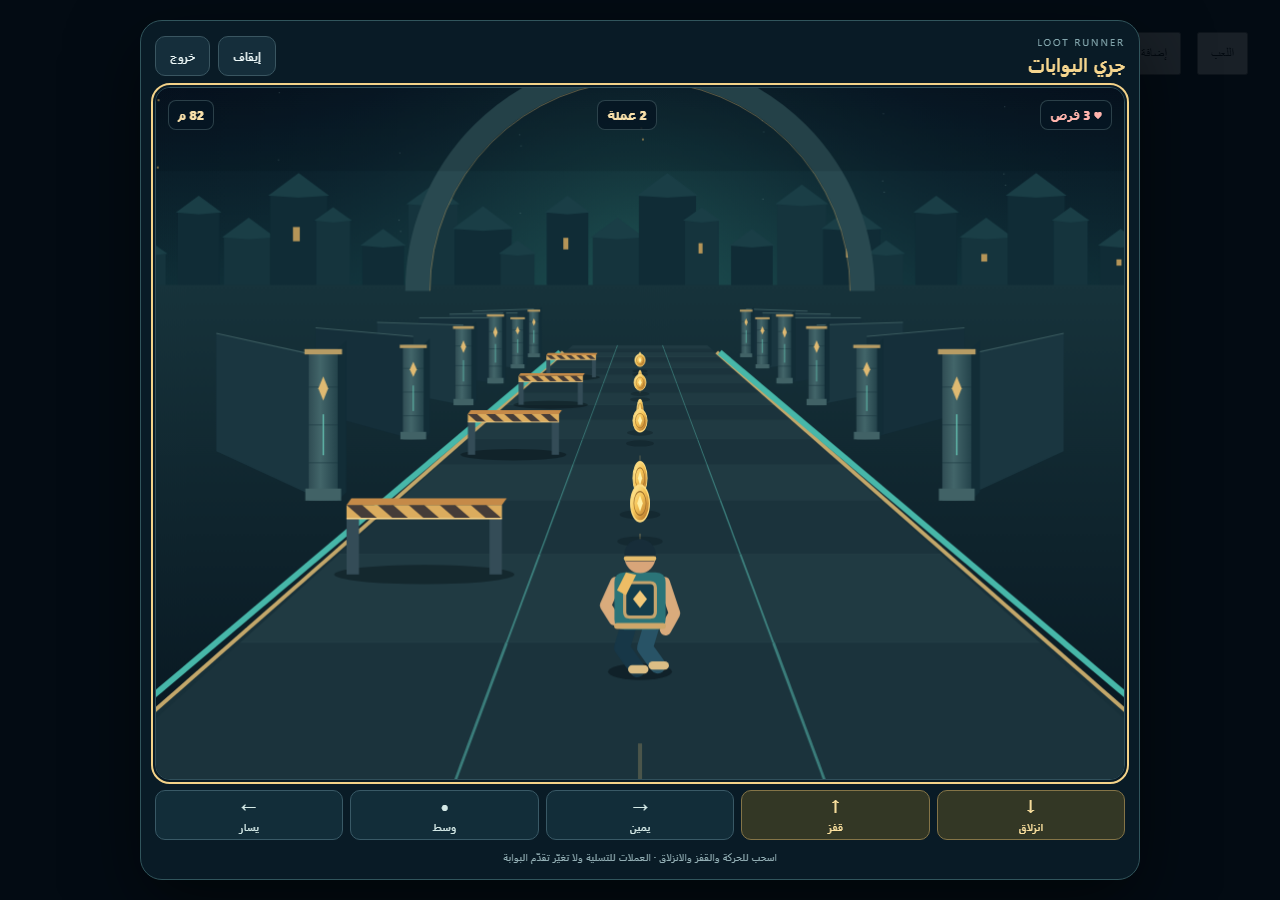
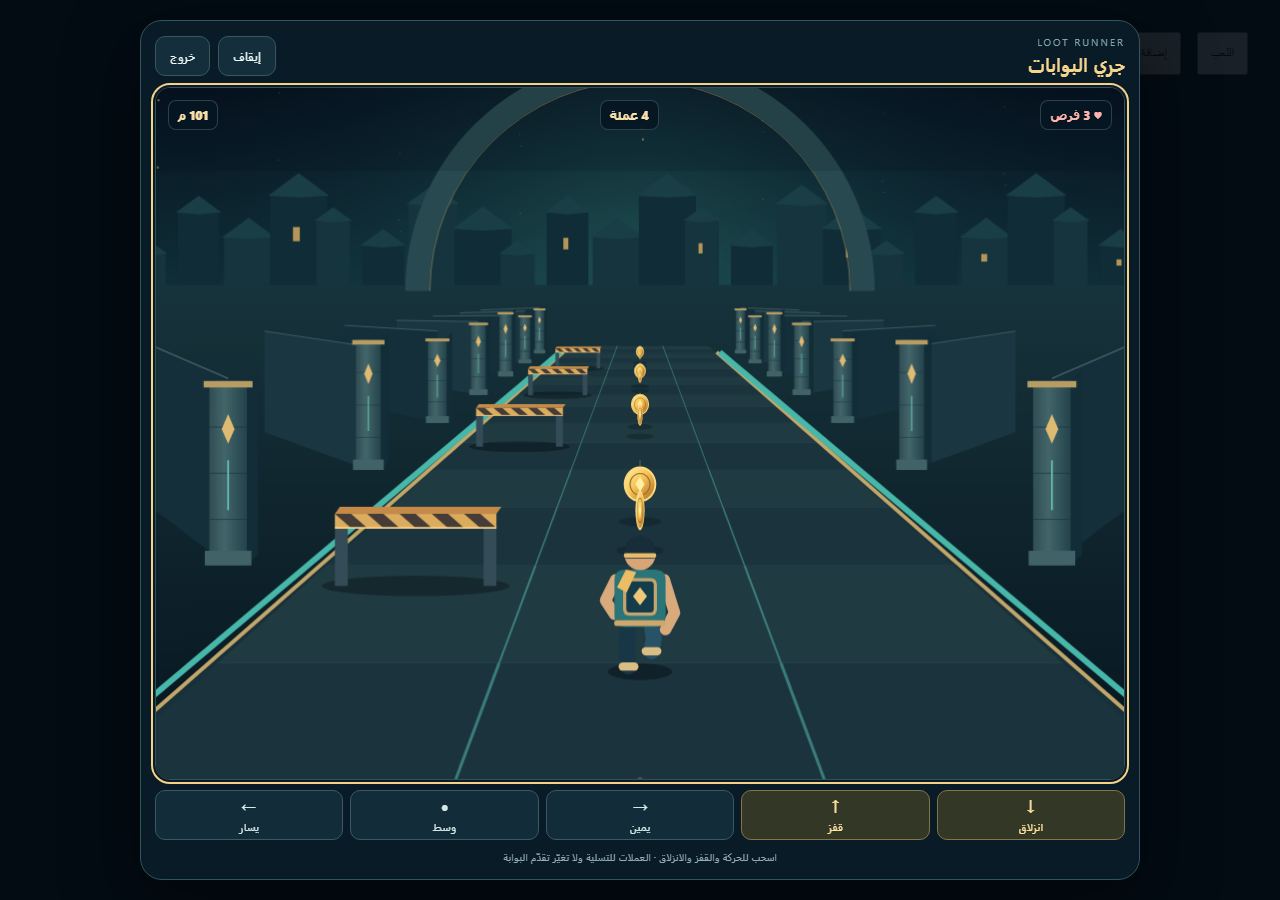
Refine runner jump physics, pacing, gate visibility and rooftop routes

diff --git a/js/runner-renderer.js b/js/runner-renderer.js
@@ -142,13 +142,22 @@
           column(lane, z, index);
         }
       }
+      // A moving tunnel section adds scenery with a handful of canvas paths.
+      const tunnel = Math.floor(distance / 240) % 2 === 1;
+      if (tunnel) for (const z of [12, 30, 48, 66]) {
+        const a = project(-.68, z), b = project(2.68, z), h = actorHeight * 2.6 * a.scale;
+        context.strokeStyle = '#36515a'; context.lineWidth = Math.max(3, laneWidth * .09 * a.scale);
+        context.beginPath(); context.moveTo(a.x, a.y); context.lineTo(a.x, a.y - h * .7);
+        context.quadraticCurveTo(width / 2, a.y - h * 1.25, b.x, b.y - h * .7); context.lineTo(b.x, b.y); context.stroke();
+        line(context, a.x, a.y - h * .68, b.x, b.y - h * .68, '#b99b60', Math.max(1, a.scale * 2));
+      }
     }
     function shadow(x, y, w, h, alpha = .3) {
       context.fillStyle = `rgba(0,7,12,${alpha})`; context.beginPath(); context.ellipse(x, y, w, h, 0, 0, Math.PI * 2); context.fill();
     }
     function coin(entity, p, time) {
       const phase = time * .005 + (Number(entity.id) || 0), radius = laneWidth * .095 * p.scale;
-      const x = p.x, y = p.y - actorHeight * .44 * p.scale + Math.sin(phase * 1.7) * radius * .12;
+      const x = p.x, y = p.y - actorHeight * (entity.height ?? .44) * p.scale + Math.sin(phase * 1.7) * radius * .12;
       shadow(x, p.y + 1, radius * 1.25, radius * .28, .23);
       context.save(); context.translate(x, y); context.scale(Math.max(.23, Math.abs(Math.cos(phase))), 1);
       const metal = context.createLinearGradient(-radius, -radius, radius, radius);
@@ -163,6 +172,25 @@
       const type = entity.obstacleType || entity.type;
       const w = laneWidth * .72 * p.scale, h = actorHeight * p.scale;
       shadow(p.x, p.y, w * .58, h * .1, .36);
+      if (type === 'train') {
+        const ramp = project(entity.lane, entity.z + 6), end = project(entity.lane, entity.z + entity.length);
+        const rw = laneWidth * .76 * ramp.scale, ew = laneWidth * .76 * end.scale;
+        const ry = ramp.y - actorHeight * 1.05 * ramp.scale, ey = end.y - actorHeight * 1.05 * end.scale;
+        quad(context, ramp.x - rw / 2, ry, end.x - ew / 2, ey, end.x + ew / 2, ey, ramp.x + rw / 2, ry, '#497780');
+        quad(context, ramp.x + rw / 2, ry, end.x + ew / 2, ey, end.x + ew / 2, end.y, ramp.x + rw / 2, ramp.y, '#163a49');
+        quad(context, p.x - w / 2, p.y, p.x + w / 2, p.y, ramp.x + rw / 2, ry, ramp.x - rw / 2, ry, '#bc9b61');
+        for (let i = 1; i < 6; i++) {
+          const t = i / 6;
+          line(context, p.x - w / 2 + (ramp.x - rw / 2 - p.x + w / 2) * t, p.y + (ry - p.y) * t,
+            p.x + w / 2 + (ramp.x + rw / 2 - p.x - w / 2) * t, p.y + (ry - p.y) * t, '#4b5a55', Math.max(1, p.scale * 2));
+        }
+        for (let i = 8; i < entity.length; i += 4) {
+          const q = project(entity.lane, entity.z + i), qw = laneWidth * .76 * q.scale;
+          context.fillStyle = '#b7d6cf'; context.fillRect(q.x + qw * .51, q.y - actorHeight * .78 * q.scale, Math.max(2, qw * .08), actorHeight * .32 * q.scale);
+        }
+        line(context, ramp.x - rw * .43, ry, end.x - ew * .43, ey, '#e7c77c', Math.max(1, ramp.scale * 2));
+        return;
+      }
       if (type === 'overhead') {
         const left = p.x - w / 2, right = p.x + w / 2, beamY = p.y - h * .72, thickness = h * .14;
         context.fillStyle = '#344c57'; context.fillRect(left, beamY, w * .08, h * .72); context.fillRect(right - w * .08, beamY, w * .08, h * .72);
@@ -173,7 +201,7 @@
         return;
       }
       const low = type === 'low' || type === 'lowbar';
-      const blockHeight = h * (low ? .37 : .95), x = p.x - w / 2, y = p.y - blockHeight, depth = h * .12;
+      const blockHeight = h * (low ? .37 : 1.4), x = p.x - w / 2, y = p.y - blockHeight, depth = h * .12;
       quad(context, x, y, x + depth, y - depth, x + w + depth, y - depth, x + w, y, low ? '#e0b86d' : '#94724b');
       quad(context, x + w, y, x + w + depth, y - depth, x + w + depth, p.y - depth, x + w, p.y, low ? '#7c663b' : '#5b4a37');
       context.fillStyle = low ? '#b88d48' : '#6e593e'; context.fillRect(x, y, w, blockHeight);
@@ -186,11 +214,17 @@
       }
     }
     function gate(entity, state) {
+      if (!entity.resolved) {
+        const a = project(-.56, entity.z), b = project(2.56, entity.z);
+        const farLeft = project(-.56, FAR), farRight = project(2.56, FAR);
+        // Opaque veil hides the continuing road until the physical crossing.
+        quad(context, a.x, a.y, b.x, b.y, farRight.x, farRight.y, farLeft.x, farLeft.y, '#040c18');
+      }
       for (let lane = 0; lane < 3; lane++) {
         const p = project(lane, entity.z), w = laneWidth * .9 * p.scale, h = actorHeight * 1.48 * p.scale;
         const x = p.x - w / 2, y = p.y - h, rim = Math.max(2, w * .085), color = laneColors[lane];
         shadow(p.x, p.y, w * .58, h * .04, .2);
-        context.fillStyle = 'rgba(49,130,129,.07)'; rounded(context, x + rim, y + rim, w - rim * 2, h - rim, w * .44); context.fill();
+        context.fillStyle = entity.resolved ? (state.feedback?.correct ? '#135846' : '#642a39') : '#040c18'; rounded(context, x + rim, y + rim, w - rim * 2, h - rim, w * .44); context.fill();
         context.strokeStyle = '#172d38'; context.lineWidth = rim * 2.8; context.lineCap = 'butt';
         context.beginPath(); context.moveTo(x + rim, p.y); context.lineTo(x + rim, y + w * .48);
         context.quadraticCurveTo(x + rim, y + rim, p.x, y + rim); context.quadraticCurveTo(x + w - rim, y + rim, x + w - rim, y + w * .48); context.lineTo(x + w - rim, p.y); context.stroke();
@@ -209,12 +243,12 @@
     }
     function actor(state, delta) {
       visualLane += (clamp(Number(state.lane) || 0, 0, 2) - visualLane) * (1 - Math.exp(-delta / 72));
-      const p = project(visualLane, 0), h = actorHeight, phase = activeTime * .014;
-      const fraction = clamp((Number(state.elapsed) - Number(state.actionStartedAt)) / Math.max(1, Number(state.actionUntil) - Number(state.actionStartedAt)), 0, 1);
-      const jumping = state.action === 'jump', sliding = state.action === 'slide';
-      const elevation = jumping ? Math.sin(fraction * Math.PI) * h * .88 : 0;
-      const sway = jumping || sliding ? 0 : Math.sin(phase) * h * .018;
-      shadow(p.x, p.y + h * .025, h * (sliding ? .34 : .25) * (1 - elevation / h * .18), h * .065, .4 - elevation / h * .18);
+      const p = project(visualLane, 0), h = actorHeight, phase = (Number(state.distance) || 0) * 1.55;
+      const pose = root.LootLinguaRunnerEngine.getPose(state);
+      const jumping = pose.action === 'jump', sliding = pose.action === 'slide';
+      const elevation = pose.feet * h;
+      const sway = jumping || sliding ? 0 : -Math.abs(Math.sin(phase)) * h * .025;
+      shadow(p.x, p.y - pose.floor * h + h * .025, h * (sliding ? .34 : .25) * (1 - pose.lift * .18), h * .065, .4 - pose.lift * .18);
       context.save(); context.translate(p.x, p.y - elevation + sway);
       if (Number(state.invulnerableUntil) > Number(state.elapsed) && Math.floor(activeTime / 80) % 2) context.globalAlpha = .58;
       if (sliding) {
@@ -227,10 +261,14 @@
         line(context, -h * .08, -h * .35, h * .02, -h * .35, '#f4ca7a', h * .05);
       } else {
         const stride = jumping ? .38 : Math.sin(phase);
-        limb(-h * .09, -h * .34, -h * (.09 + stride * .13), -h * .17, -h * (.08 - stride * .15), jumping ? -h * .15 : 0, '#173747', h * .125);
-        limb(h * .09, -h * .34, h * (.09 - stride * .13), -h * .17, h * (.08 + stride * .15), jumping ? -h * .08 : -h * .03, '#285366', h * .125);
-        line(context, -h * (.08 - stride * .15) - h * .04, jumping ? -h * .15 : 0, -h * (.08 - stride * .15) + h * .055, jumping ? -h * .15 : 0, '#dbbe85', h * .065);
-        line(context, h * (.08 + stride * .15) - h * .04, jumping ? -h * .08 : -h * .03, h * (.08 + stride * .15) + h * .055, jumping ? -h * .08 : -h * .03, '#dbbe85', h * .065);
+        // Viewed from behind: feet cycle in depth/height, never sweep sideways.
+        for (const side of [-1, 1]) {
+          const swing = stride * side, x = side * h * .09;
+          const kneeY = -h * (.17 + Math.max(0, swing) * .08);
+          const footY = jumping ? -h * (.12 + side * .035) : -h * Math.max(0, swing) * .2;
+          limb(x, -h * .34, x + side * h * .018, kneeY, x, footY, side < 0 ? '#173747' : '#285366', h * .125);
+          line(context, x - h * .045, footY, x + h * .045, footY, '#dbbe85', h * .065);
+        }
         limb(-h * .19, -h * .68, -h * .27, -h * (.47 + stride * .08), -h * .2, -h * (.35 + stride * .1), '#d9ab7c', h * .09);
         limb(h * .19, -h * .68, h * .27, -h * (.47 - stride * .08), h * .2, -h * (.35 - stride * .1), '#d9ab7c', h * .09);
         // Teal explorer jacket, brass belt and a small geometric loot backpack.
@@ -260,12 +298,18 @@
       road(distance); environment(distance);
       ordered.length = 0; metrics.drawn = 0; metrics.culled = 0;
       for (const entity of state.entities || []) {
-        if (!entity || entity.active === false || entity.z < -6 || entity.z > FAR || entity.collected || entity.hit) { metrics.culled++; continue; }
+        if (!entity || entity.active === false || entity.z + (entity.length || 0) < -6 || entity.z > FAR || entity.collected || entity.hit) { metrics.culled++; continue; }
         ordered.push(entity);
       }
       ordered.sort(byDepth);
+      const readingGate = ordered.find(item => item.kind === 'gate' && !item.resolved);
+      // Roofs are support surfaces. Paint them before their elevated coins
+      // and the runner, regardless of where the carriage's front is located.
+      for (const train of ordered) if (train.obstacleType === 'train' && (!readingGate || train.z < readingGate.z)) { obstacle(train, project(train.lane, train.z)); metrics.drawn++; }
       let actorDrawn = false;
       for (const entity of ordered) {
+        if (readingGate && entity !== readingGate && entity.z > readingGate.z) { metrics.culled++; continue; }
+        if (entity.obstacleType === 'train') continue;
         if (!actorDrawn && entity.z < 0) { actor(state, delta); actorDrawn = true; }
         const p = project(entity.lane ?? 1, entity.z);
         if (entity.kind === 'gate' || entity.type === 'gate') gate(entity, state);

diff --git a/js/runner-engine.js b/js/runner-engine.js
@@ -1,8 +1,8 @@
 (function(root) {
   'use strict';
   const LANES = 3, MAX_HEARTS = 3, MAX_ENTITIES = 48, MAX_EVENTS = 16;
-  const FAR = 80, SPAWN_Z = 64, BASE_SPEED = 12, MAX_SPEED = 23;
-  const JUMP_MS = 850, SLIDE_MS = 800, INVULNERABLE_MS = 1100;
+  const FAR = 80, SPAWN_Z = 64, BASE_SPEED = 14, MAX_SPEED = 32;
+  const JUMP_MS = 1100, SLIDE_MS = 900, INVULNERABLE_MS = 1100;
   const clamp = (value, low, high) => Math.max(low, Math.min(high, value));
   const clean = value => String(value ?? '').trim().replace(/\s+/g, ' ');
 
@@ -24,14 +24,15 @@
   }
   function createState(words, options = {}) {
     const normalized = normalizeWords(words);
+    const rng = typeof options.random === 'function' ? options.random : Math.random;
     return {
       words: normalized, lane: 1, hearts: MAX_HEARTS, coins: 0,
       distance: 0, speed: BASE_SPEED, elapsed: 0, running: true, paused: false, over: false,
       action: 'run', actionStartedAt: 0, actionUntil: 0, invulnerableUntil: 0,
       entities: [], gate: null, feedback: null, events: [],
-      _random: typeof options.random === 'function' ? options.random : Math.random,
+      _random: rng,
       _pool: Array.from({ length: MAX_ENTITIES }, () => ({})), _nextId: 1,
-      _nextRowAt: 700, _nextGateAt: 12000, _row: 0, _escapeLane: 1, _safeUntil: 0,
+      _nextRowAt: 400, _nextGateAt: 30000 + Math.floor(clamp(Number(rng()) || 0, 0, 1) * 12000), _row: 0, _escapeLane: 1, _safeUntil: 0,
       _canGate: new Set(normalized.map(item => item.meaning)).size >= LANES,
     };
   }
@@ -53,6 +54,19 @@
   }
   function jump(state) { return startAction(state, 'jump', JUMP_MS); }
   function slide(state) { return startAction(state, 'slide', SLIDE_MS); }
+  // Shared by collision and drawing: heights are measured in standing bodies.
+  function getPose(state, at = state.elapsed) {
+    const action = getAction(state, at);
+    const fraction = clamp((at - state.actionStartedAt) / Math.max(1, state.actionUntil - state.actionStartedAt), 0, 1);
+    let floor = 0;
+    for (const entity of state.entities) {
+      if (entity.obstacleType !== 'train' || entity.lane !== state.lane) continue;
+      const z = entity.z + state.speed * (state.elapsed - at) / 1000;
+      if (z <= 0 && z >= -entity.length) floor = Math.max(floor, Math.min(1, -z / 6, (entity.length + z) / 3) * 1.05);
+    }
+    const lift = action === 'jump' ? Math.sin(fraction * Math.PI) * 1.12 : 0;
+    return { action, feet: floor + lift, top: floor + lift + (action === 'slide' ? .43 : 1), floor, lift };
+  }
   function allocate(state, data) {
     const entity = state._pool.pop();
     if (!entity) return null;
@@ -94,28 +108,33 @@
       if (entity.kind === 'obstacle' && entity.z > 0) retire(state, index);
     }
     state.gate = gate;
-    state._nextGateAt = state.elapsed + 16000 + random(state) * 4000;
+    state._nextGateAt = state.elapsed + 30000 + random(state) * 18000;
     emit(state, { type: 'gate-approach', id: gate.id, word: gate.word });
   }
   function spawnRow(state) {
-    if (state.elapsed < state._nextRowAt || state.elapsed < state._safeUntil || (state.gate && !state.gate.resolved)) return;
-    const clearance = SPAWN_Z / BASE_SPEED * 1000 + 500;
-    if (hasGateWords(state) && state._nextGateAt - state.elapsed < clearance) return;
+    if (state.elapsed < state._nextRowAt || state.elapsed < state._safeUntil) return;
+    const reading = state.gate && !state.gate.resolved;
+    const clearance = (SPAWN_Z + 24) / BASE_SPEED * 1000 + 250;
+    const draining = !reading && hasGateWords(state) && state._nextGateAt - state.elapsed < clearance;
+    const spawnZ = reading ? Math.max(SPAWN_Z, state.gate.z + 24) : SPAWN_Z;
     const escapeOptions = [0, 1, 2].filter(lane => Math.abs(lane - state._escapeLane) <= 1);
     const escape = choose(state, escapeOptions);
     const blocked = [0, 1, 2].filter(lane => lane !== escape);
     if (random(state) > .5) blocked.reverse();
-    const obstacleCount = state.speed > 16 && random(state) > .45 ? 2 : 1;
-    if (state._pool.length < obstacleCount + 2) return;
+    const obstacleCount = state.distance > 120 && random(state) > .25 ? 2 : 1;
+    if (state._pool.length < obstacleCount + 4) return;
     const row = ++state._row;
-    for (let index = 0; index < obstacleCount; index++) {
-      allocate(state, { kind: 'obstacle', obstacleType: choose(state, ['low', 'overhead', 'wall']),
-        lane: blocked[index], z: SPAWN_Z, row });
+    for (let index = 0; index < (draining ? 0 : obstacleCount); index++) {
+      const lane = blocked[index];
+      if (state.entities.some(item => item.obstacleType === 'train' && item.lane === lane && item.z > -item.length)) continue;
+      const type = row > 5 && row % 7 === 0 && index === 0 ? 'train' : choose(state, ['low', 'overhead', 'wall']);
+      allocate(state, { kind: 'obstacle', obstacleType: type, length: type === 'train' ? 20 : 0, lane, z: spawnZ, row });
+      if (type === 'train') for (const offset of [10, 15]) allocate(state, { kind: 'coin', lane, z: spawnZ + offset, height: 1.49, row });
     }
-    allocate(state, { kind: 'coin', lane: escape, z: SPAWN_Z + 3, row });
-    allocate(state, { kind: 'coin', lane: escape, z: SPAWN_Z + 6, row });
+    allocate(state, { kind: 'coin', lane: escape, z: spawnZ + 3, row });
+    allocate(state, { kind: 'coin', lane: escape, z: spawnZ + 6, row });
     state._escapeLane = escape;
-    state._nextRowAt = state.elapsed + Math.max(750, 1300 - state.distance / 4);
+    state._nextRowAt = state.elapsed + Math.max(680, 1150 - state.distance / 3) + random(state) * 240;
   }
   function damage(state, at, cause) {
     if (at < state.invulnerableUntil || state.over) return false;
@@ -134,11 +153,17 @@
       state._safeUntil = state.elapsed + 1200;
       emit(state, { type: 'gate', correct, word: entity.word, correctMeaning: entity.correctMeaning, chosenLane: state.lane });
     } else if (entity.lane === state.lane && entity.kind === 'coin') {
-      entity.collected = true;
-      state.coins++; emit(state, { type: 'coin', id: entity.id, amount: 1, total: state.coins });
+      const pose = getPose(state, at), height = entity.height ?? .44;
+      if (pose.feet <= height + .12 && pose.top >= height - .12) {
+        entity.collected = true;
+        state.coins++; emit(state, { type: 'coin', id: entity.id, amount: 1, total: state.coins });
+      }
     } else if (entity.lane === state.lane && entity.kind === 'obstacle') {
-      const action = getAction(state, at);
-      const cleared = entity.obstacleType === 'low' && action === 'jump' || entity.obstacleType === 'overhead' && action === 'slide';
+      const pose = getPose(state, at);
+      const cleared = entity.obstacleType === 'train' ||
+        entity.obstacleType === 'low' && pose.feet >= .37 ||
+        entity.obstacleType === 'overhead' && (pose.top <= .6 || pose.feet >= .88) ||
+        entity.obstacleType === 'wall' && pose.feet >= 1.4;
       if (!cleared) damage(state, at, entity.obstacleType);
     }
   }
@@ -150,22 +175,22 @@
     state.elapsed += dt;
     if (state.feedback && state.elapsed >= state.feedback.until) state.feedback = null;
     maybeGate(state);
-    const desired = Math.min(MAX_SPEED, BASE_SPEED + state.distance / 150);
-    state.speed = state.gate && !state.gate.resolved ? BASE_SPEED : desired;
+    const desired = Math.min(MAX_SPEED, BASE_SPEED + state.distance / 70);
+    state.speed = state.gate && !state.gate.resolved ? 12 : desired;
     const travelled = state.speed * dt / 1000;
     state.distance += travelled;
+    for (const entity of state.entities) entity.z -= travelled;
     for (const entity of state.entities) {
-      const oldZ = entity.z;
-      entity.z -= travelled;
+      const oldZ = entity.z + travelled;
       if (!entity.resolved && oldZ > 0 && entity.z <= 0) cross(state, entity, before + dt * oldZ / travelled);
       if (state.over) break;
     }
-    for (let index = state.entities.length - 1; index >= 0; index--) if (state.entities[index].z < -8) retire(state, index);
+    for (let index = state.entities.length - 1; index >= 0; index--) if (state.entities[index].z < -((state.entities[index].length || 0) + 8)) retire(state, index);
     if (getAction(state) === 'run') state.action = 'run';
     if (!state.over) spawnRow(state);
     return state;
   }
-  root.LootLinguaRunnerEngine = Object.freeze({ createState, update, move, jump, slide, getAction, normalizeWords, createWordGate,
+  root.LootLinguaRunnerEngine = Object.freeze({ createState, update, move, jump, slide, getAction, getPose, normalizeWords, createWordGate,
     constants: Object.freeze({ LANES, MAX_HEARTS, MAX_ENTITIES, MAX_EVENTS, FAR, SPAWN_Z, BASE_SPEED, MAX_SPEED, JUMP_MS, SLIDE_MS, INVULNERABLE_MS }),
   });
 })(window);

diff --git a/js/gate-runner.js b/js/gate-runner.js
@@ -67,11 +67,11 @@
     });
     const css = document.querySelector('link[data-runner-style]');
     const styles = css ? Promise.resolve() : new Promise((resolve, reject) => {
-      const link = document.createElement('link'); link.rel = 'stylesheet'; link.href = 'runner.css?v=20261106-runner-1';
+      const link = document.createElement('link'); link.rel = 'stylesheet'; link.href = 'runner.css?v=20261106-runner-2';
       link.dataset.runnerStyle = ''; link.onload = resolve; link.onerror = () => { link.remove(); reject(new Error('Runner styles unavailable')); };
       document.head.append(link);
     });
-    resources = Promise.all([styles, module('LootLinguaRunnerEngine', 'js/runner-engine.js?v=20261106-runner-1'), module('LootLinguaRunnerRenderer', 'js/runner-renderer.js?v=20261106-runner-1')]).catch(error => { resources = null; throw error; });
+    resources = Promise.all([styles, module('LootLinguaRunnerEngine', 'js/runner-engine.js?v=20261106-runner-2'), module('LootLinguaRunnerRenderer', 'js/runner-renderer.js?v=20261106-runner-2')]).catch(error => { resources = null; throw error; });
     return resources;
   }
   function button(label, cls, action) {
@@ -175,7 +175,12 @@
         feedbackUntil = state.feedback.until;
         status.textContent = state.feedback.correct ? 'بوابة صحيحة! أحسنت.' : `المعنى الصحيح: ${state.feedback.correctMeaning || ''}`;
         status.dataset.tone = state.feedback.correct ? 'correct' : 'wrong';
-      } else if (!state.feedback && status.textContent) status.textContent = '';
+      } else if (!state.feedback) {
+        const nearby = state.entities.find(item => item.kind === 'obstacle' && item.lane === state.lane && item.z > 0 && item.z / state.speed < (['low', 'overhead'].includes(item.obstacleType) ? .62 : 1.1));
+        const text = nearby ? ({ low: '↑ اقفز فوق الحاجز', overhead: '↓ انزلق تحت العارضة', wall: '← غيّر المسار →', train: 'منحدر أمامك — اصعد إلى سطح العربة' }[nearby.obstacleType] || '') : '';
+        if (status.textContent !== text) status.textContent = text;
+        status.dataset.tone = 'hint';
+      }
     }
     function frame(now) {
       if (destroyed) return;

diff --git a/index.html b/index.html
@@ -1211,7 +1211,7 @@
 <script src="js/xp-batch.js?v=20261105-integrity-1"></script>
 <script src="js/dictionary.js?v=20261106-stage2-1"></script>
 <script src="js/gate-game-migration.js?v=20261007-1"></script>
-<script src="js/gate-runner.js?v=20261106-runner-1"></script>
+<script src="js/gate-runner.js?v=20261106-runner-2"></script>
 <script src="js/worlds.js?v=20261106-stage2-1"></script>
 <script src="js/dictionary-window.js?v=20261105-render-1"></script>
 <script src="js/dictionary-render.js?v=20261105-pages-1"></script>
@@ -1223,7 +1223,7 @@
 <script src="js/quiz-runtime.js?v=20261106-stage2-1"></script>
 <script src="js/notification-sources.js?v=20261105-pages-1"></script>
 <script src="js/notification-runtime.js?v=20261105-pages-1"></script>
-<script src="js/core-runtime.js?v=20261106-runner-1"></script>
+<script src="js/core-runtime.js?v=20261106-runner-2"></script>
 <script src="js/theme-favicon.js" defer></script>
 <template data-startup-script="js/oasis-preview-animation.js"></template>
 <script src="js/lootlingua-glass-refraction-v2.8.js" defer></script></body>

diff --git a/runner.css b/runner.css
@@ -25,6 +25,7 @@
 .llr-status { position: absolute; left: 5%; right: 5%; bottom: 7px; margin: 0; padding: 8px; border-radius: 9px; text-align: center; font-size: 13px; font-weight: 800; background: #09241ae8; color: #abf4cd; direction: rtl; pointer-events: none; }
 .llr-status:empty { display: none; }
 .llr-status[data-tone="wrong"] { background: #3c1823eb; color: #ffd0c5; }
+.llr-status[data-tone="hint"] { background: #092432ee; color: #ffe5ac; border: 1px solid #b99b60; }
 .llr-screen { position: absolute; z-index: 5; inset: 0; padding: clamp(16px,4vw,40px); display: flex; flex-direction: column; justify-content: center; align-items: center; gap: 14px; text-align: center; direction: rtl; background: linear-gradient(#05131ee8,#0a2535eb); overflow-y: auto; }
 .llr-screen-kicker { color: #79daca; letter-spacing: .25em; font-size: 10px; }
 .llr-screen h2 { margin: 0; color: #f7d796; font-size: clamp(24px,5vw,42px); line-height: 1.2; }

diff --git a/reports/runner-evidence/README.md b/reports/runner-evidence/README.md
@@ -9,7 +9,7 @@ No Firebase or production API writes occur.
 
 Final result: all focused checks pass; `runtimeExceptions` is empty.
 
-`npm run test:runner` also passes 18 focused engine, profile synchronization
+`npm run test:runner` also passes 21 focused engine, profile synchronization
 and expedition tests: crossing-time collisions, gate evaluation, pause,
 invulnerability and bounded object reuse over 20,000 updates.
 
@@ -22,10 +22,10 @@ invulnerability and bounded object reuse over 20,000 updates.
 - Exit restores focus, scroll and background isolation. Account changes stop
   the run. Word-fetch failure and official review becoming due prevent or stop
   play, including a due change during an asynchronous word fetch.
-- A desktop run collects two coins and submits exactly one account wallet
+- A desktop run collects coins and submits exactly one account wallet
   delta with its immutable run ID. The fixture never grants XP or SRS progress.
 - A separate safe-route engine/renderer fixture simulates 120 seconds with
-  600 real canvas draws. Its peak is 16 active entities, the combined pool and
+  600 real canvas draws. Its peak is recorded in the JSON report; the combined pool and
   active list stays at 48, and DOM count remains unchanged. The renderer's DPR
   is capped at 1.5. Backing-pixel/client-width ratios differ slightly because
   the controller supplies the viewport rectangle including its two borders.
@@ -34,6 +34,14 @@ invulnerability and bounded object reuse over 20,000 updates.
 images use the real renderer and cloned controller UI after controller cleanup,
 with explicit public engine states for a gate, low/overhead/wall obstacles,
 jump and slide. This avoids mutating a live run or competing resize callbacks.
-All three images were visually inspected.
+`train-rooftop.png` shows the shared roof support height, elevated coins and
+the lightweight tunnel scenery in another isolated renderer state.
+
+The second iteration spaces gates 30–48 seconds apart (30–42 seconds for the
+first), gradually increases running speed, and temporarily slows reading gates.
+Rows queue behind a gate's dark road veil, so play resumes without waiting for
+a completely new obstacle batch. Collision and drawing share one height model:
+high jumps miss ground coins, slides clear overhead beams, and carriage ramps
+support the runner and elevated coins. Near-obstacle hints help time actions.
 
 These are focused local measurements, not a claim of 60 FPS on every device.
